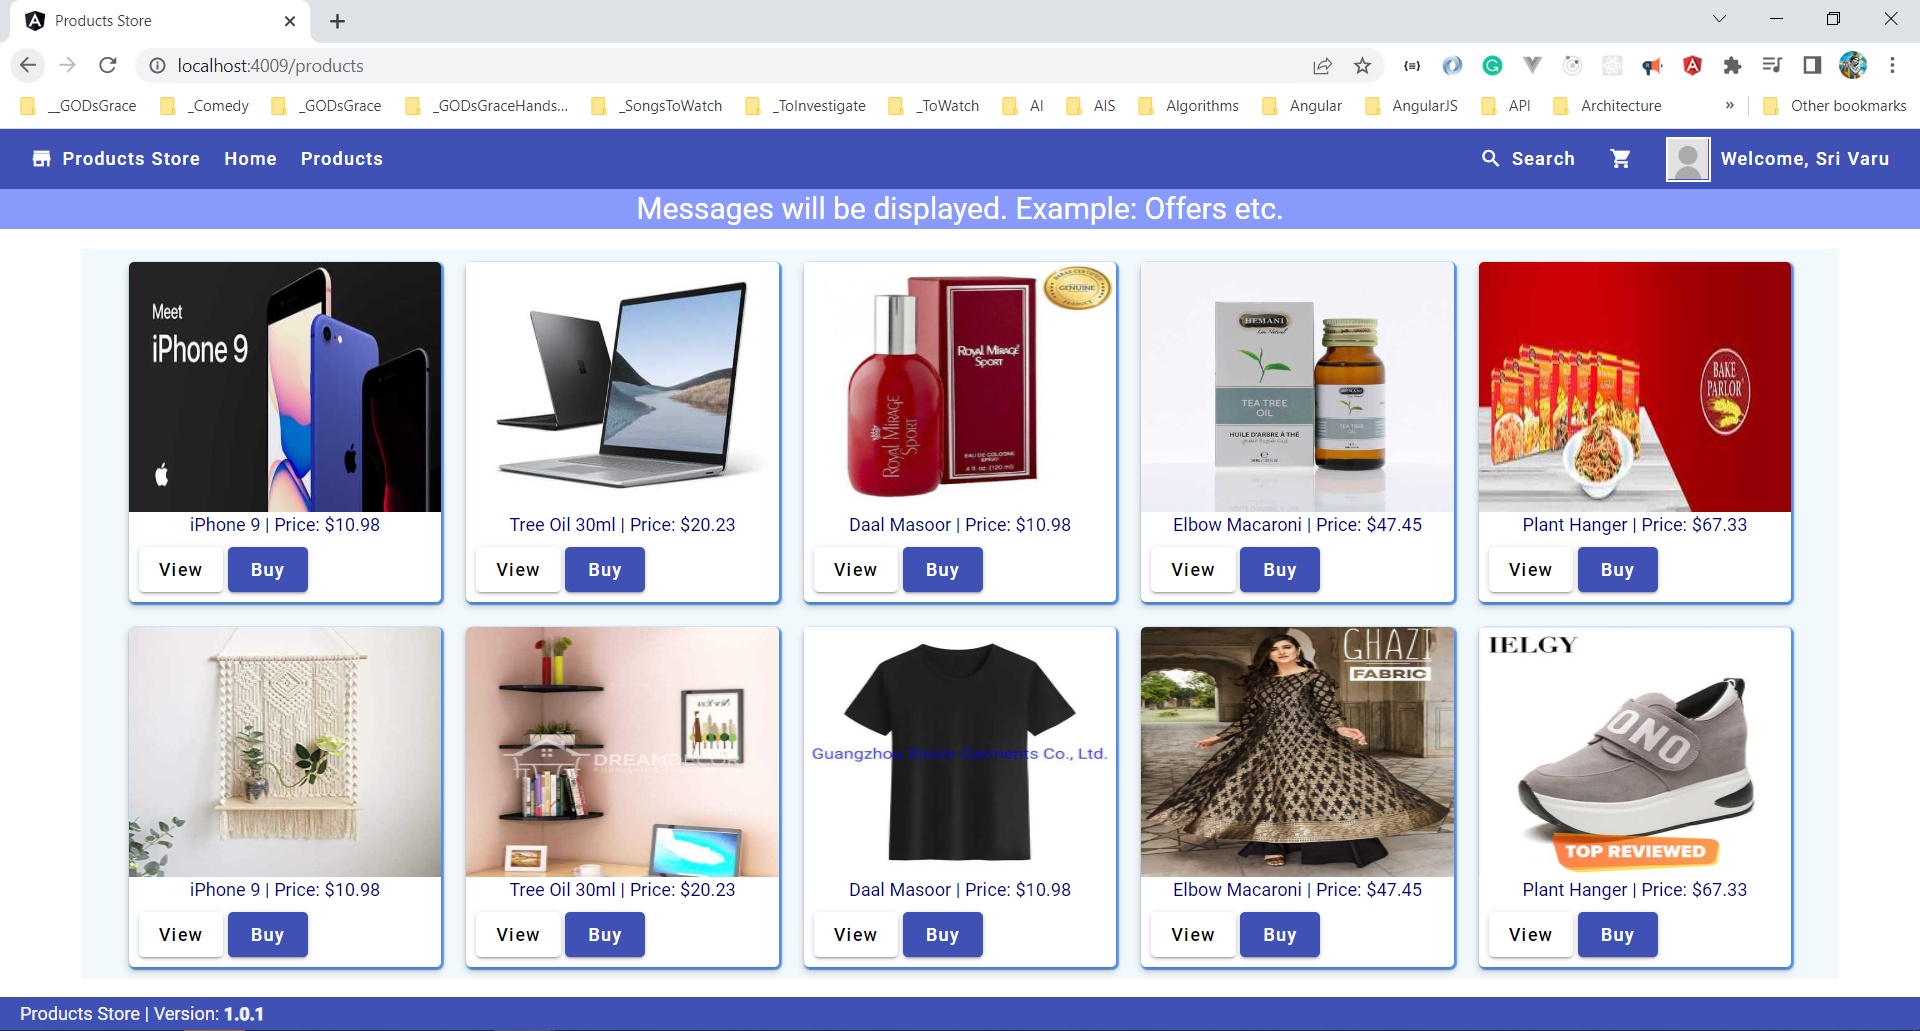
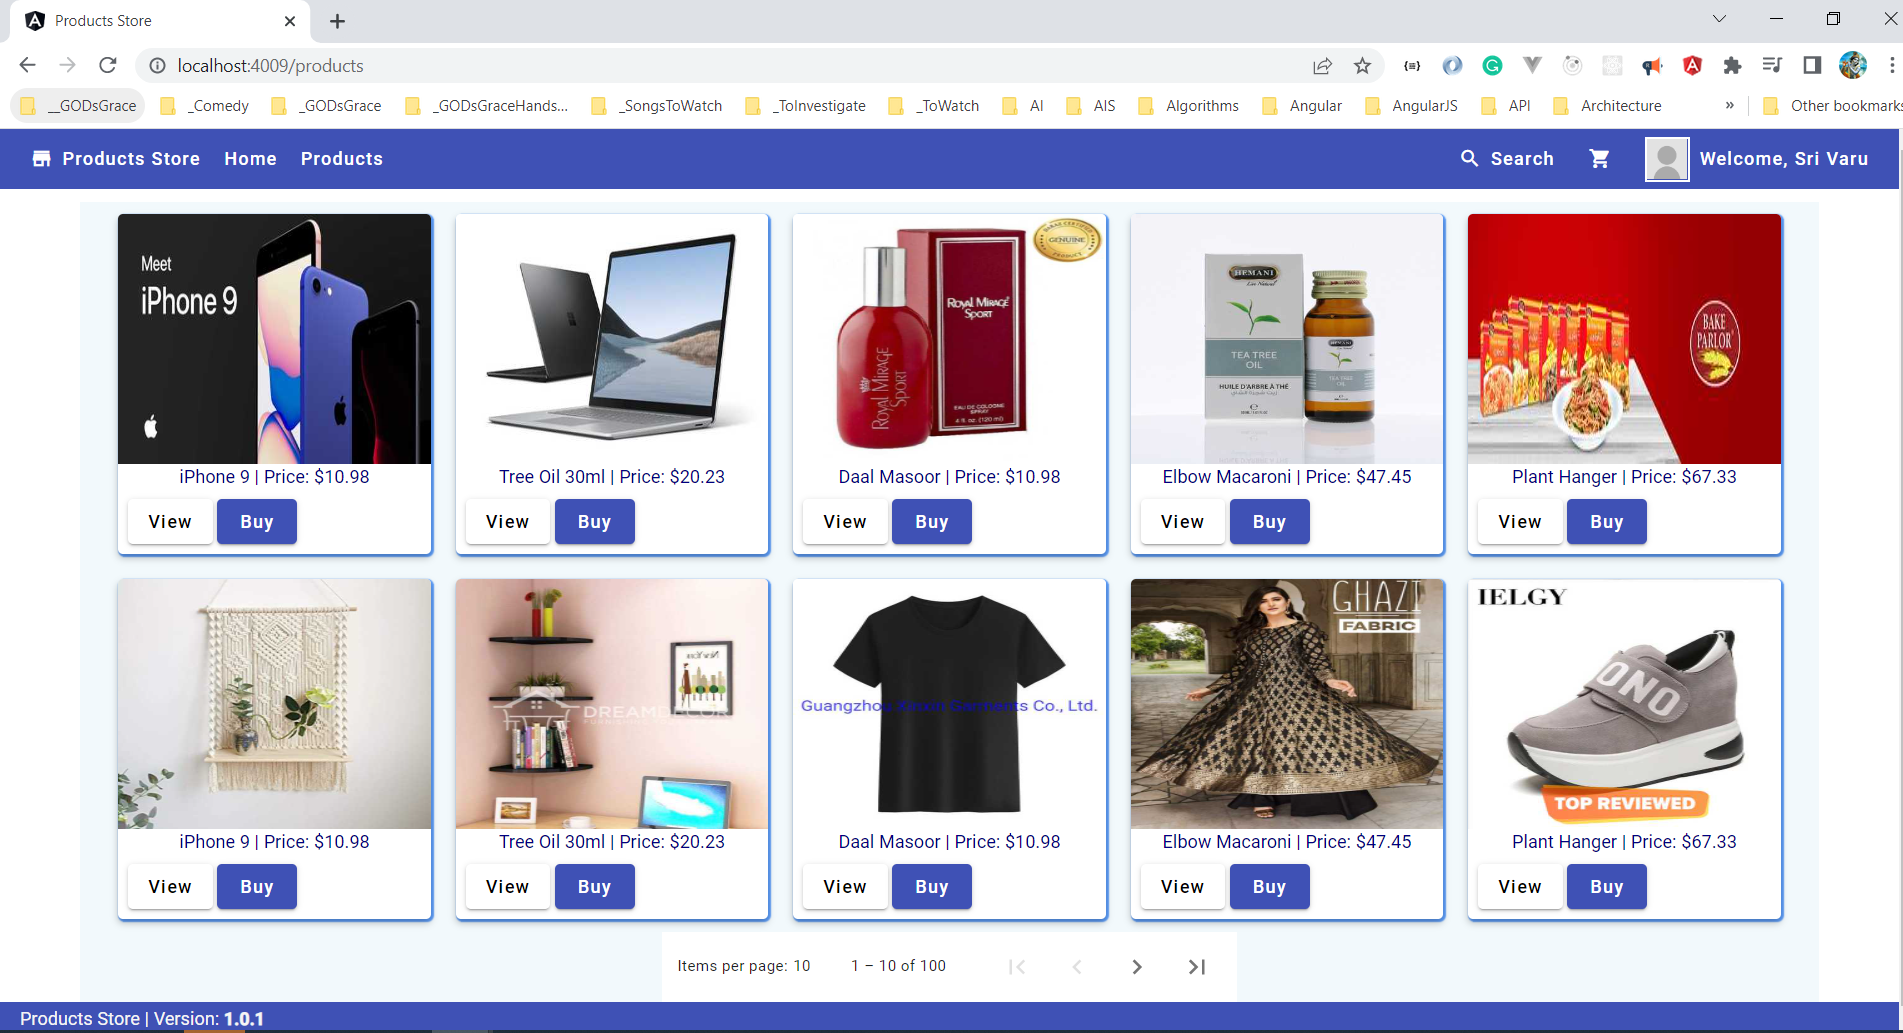
Swamy/05dec2023 initial version (#2)
* Initial Version

* Added Images

* Version Service

* Update footer.component.ts

* Initial Version

* Message Band

* Message Band Changes

* Showing Message Band only in Home Component

* Update message-band.component.ts

* Added Paginator

* Themes

* UI Facelift

* Update app.component.ts

* Message Band using Service

* Code Refactoring

* Update main_ng-products-web-2023.yml

diff --git a/src/app/modules/home/home.component.ts b/src/app/modules/home/home.component.ts
@@ -1,13 +1,14 @@
-import { Component } from '@angular/core';
+import { Component, OnDestroy, OnInit } from '@angular/core';
 import { IProductQuickView } from '~/app/interfaces/iproduct-quickview';
 import { ISlide } from '~/app/interfaces/islide.interface';
+import { MessageBandService } from '~/app/services/message-band.service';
 
 @Component({
   selector: 'app-home',
   templateUrl: './home.component.html',
   styleUrls: ['./home.component.scss']
 })
-export class HomeComponent {
+export class HomeComponent implements OnInit, OnDestroy {
 
   slides: ISlide[] = [
     { thumbnailUrl: 'https://i.dummyjson.com/data/products/1/thumbnail.jpg', title: 'iPhone 9' },
@@ -23,10 +24,20 @@ export class HomeComponent {
     { thumbnailUrl: 'https://i.dummyjson.com/data/products/21/thumbnail.png', title: 'Daal Masoor', price: 10.98 },
     { thumbnailUrl: 'https://i.dummyjson.com/data/products/22/thumbnail.jpg', title: 'Elbow Macaroni', price: 47.45 },
     { thumbnailUrl: 'https://i.dummyjson.com/data/products/26/thumbnail.jpg', title: 'Plant Hanger', price: 67.33 },
-  ]
+  ];
 
-  constructor() { }
+  message?: string = 'Messages will be displayed. Example: Offers etc.';
 
+  constructor(private messageBandService: MessageBandService) { }
+
+  ngOnInit(): void {
+    this.messageBandService.messageSubject.next(this.message);
+    this.messageBandService.showMessageSubject.next(true);
+  }
+
+  ngOnDestroy(): void {
+    this.messageBandService.showMessageSubject.next(false);
+  }
 
 
 }

diff --git a/src/app/services/message-band.service.ts b/src/app/services/message-band.service.ts
@@ -1,0 +1,22 @@
+import { Injectable } from '@angular/core';
+import { BehaviorSubject, switchMap, map } from 'rxjs';
+import { INITIAL_MESSAGE_STATE, DEFAULT_MESSAGE, EMPTY_MESSAGE } from '../core/constants/message.band';
+
+@Injectable({
+  providedIn: 'root'
+})
+export class MessageBandService {
+
+  showMessageSubject = new BehaviorSubject<boolean>(INITIAL_MESSAGE_STATE);
+
+  messageSubject = new BehaviorSubject<string | undefined>(DEFAULT_MESSAGE);
+
+  message$ = this.messageSubject.pipe(
+    switchMap((msg) =>
+      this.showMessageSubject.pipe(
+        map((isShowable) => (isShowable ? msg : EMPTY_MESSAGE))
+      )
+    )
+  );
+
+}

diff --git a/src/app/app.component.ts b/src/app/app.component.ts
@@ -1,13 +1,21 @@
-import { Component } from '@angular/core';
+import { Component, OnInit } from '@angular/core';
+import { MessageBandService } from './services/message-band.service';
 
 @Component({
   selector: 'app-root',
   templateUrl: './app.component.html',
   styleUrls: ['./app.component.scss']
 })
-export class AppComponent {
-  
+export class AppComponent implements OnInit {
+
   title = 'Products Store';
+
   message?: string = 'Messages will be displayed. Example: Offers etc.';
+  showMessageBand: boolean = false;
+
+  constructor(public messageBandService: MessageBandService) { }
+
+  ngOnInit(): void {
+  }
 
 }

diff --git a/src/app/modules/shared/layout/footer/footer.component.ts b/src/app/modules/shared/layout/footer/footer.component.ts
@@ -1,10 +1,21 @@
-import { Component } from '@angular/core';
+import { Component, OnInit } from '@angular/core';
+import { VersionService } from '~/app/services/version.service';
 
 @Component({
   selector: 'app-footer',
   templateUrl: './footer.component.html',
   styleUrls: ['./footer.component.scss']
 })
-export class FooterComponent {
-  version = '1.0.1';
+export class FooterComponent implements OnInit {
+
+  version?: string = '1.0.0';
+
+  constructor(private versionService: VersionService) { }
+
+  ngOnInit(): void {
+    this.version = this.versionService.getVersion();
+  }
+
+
+
 }

diff --git a/src/app/modules/shared/layout/message-band/message-band.component.ts b/src/app/modules/shared/layout/message-band/message-band.component.ts
@@ -1,4 +1,5 @@
 import { Component, Input } from '@angular/core';
+import { MessageBandService } from '~/app/services/message-band.service';
 
 @Component({
   selector: 'app-message-band',
@@ -7,10 +8,6 @@ import { Component, Input } from '@angular/core';
 })
 export class MessageBandComponent {
 
-  @Input() 
-  message?: string = 'No Message.';
+  constructor(public messageBandService: MessageBandService) { }
 
-  @Input() 
-  showBand: boolean = true;
-  
 }

diff --git a/src/app/services/message-band.service.spec.ts b/src/app/services/message-band.service.spec.ts
@@ -1,0 +1,16 @@
+import { TestBed } from '@angular/core/testing';
+
+import { MessageBandService } from './message-band.service';
+
+describe('MessageBandService', () => {
+  let service: MessageBandService;
+
+  beforeEach(() => {
+    TestBed.configureTestingModule({});
+    service = TestBed.inject(MessageBandService);
+  });
+
+  it('should be created', () => {
+    expect(service).toBeTruthy();
+  });
+});

diff --git a/src/app/services/version.service.spec.ts b/src/app/services/version.service.spec.ts
@@ -1,0 +1,16 @@
+import { TestBed } from '@angular/core/testing';
+
+import { VersionService } from './version.service';
+
+describe('VersionService', () => {
+  let service: VersionService;
+
+  beforeEach(() => {
+    TestBed.configureTestingModule({});
+    service = TestBed.inject(VersionService);
+  });
+
+  it('should be created', () => {
+    expect(service).toBeTruthy();
+  });
+});

diff --git a/src/app/modules/products/products-list/products-list.component.html b/src/app/modules/products/products-list/products-list.component.html
@@ -3,6 +3,9 @@
         <ng-container *ngFor="let product of allProducts">
             <app-product-quickview [product]="product"></app-product-quickview>
         </ng-container>
+
+        <mat-paginator [length]="100" [pageSize]="10" [pageSizeOptions]="[10]" [showFirstLastButtons]="true" aria-label="Select page">
+        </mat-paginator>
     </div>
 
 </div>

diff --git a/src/app/core/errors/not-found/not-found.component.html b/src/app/core/errors/not-found/not-found.component.html
@@ -5,6 +5,6 @@
         </a>
     </div>
     <div>
-        <img [ngSrc]="'./assets/images/PageNotFound.png'" width="900" height="450" class="not-found-img" />
+        <img [ngSrc]="'./assets/images/PageNotFound.png'" width="900" height="516" class="not-found-img" />
     </div>
 </div>

diff --git a/src/app/services/version.service.ts b/src/app/services/version.service.ts
@@ -1,0 +1,14 @@
+import { Injectable } from '@angular/core';
+
+@Injectable({
+  providedIn: 'root'
+})
+export class VersionService {
+  private version = '1.0.1';
+
+  constructor() { }
+
+  public getVersion(): string {
+    return this.version;
+  }
+}

diff --git a/src/app/modules/products/products-list/products-list.component.scss b/src/app/modules/products/products-list/products-list.component.scss
@@ -4,12 +4,14 @@
   max-width: 94%;
   background-color: rgb(242, 249, 252);
   text-align: center;
+  margin-bottom: 10px;
 }
 
 .container {
   display: flex;
   flex-wrap: wrap;
   justify-content: center;
+  padding-bottom: 10px;
 }
 
 .example-card {

diff --git a/src/app/app.component.html b/src/app/app.component.html
@@ -1,6 +1,6 @@
 <app-header></app-header>
 
-<app-message-band [message]="message"></app-message-band>
+<app-message-band></app-message-band>
 
 <div class="main-container">
     <router-outlet></router-outlet>
